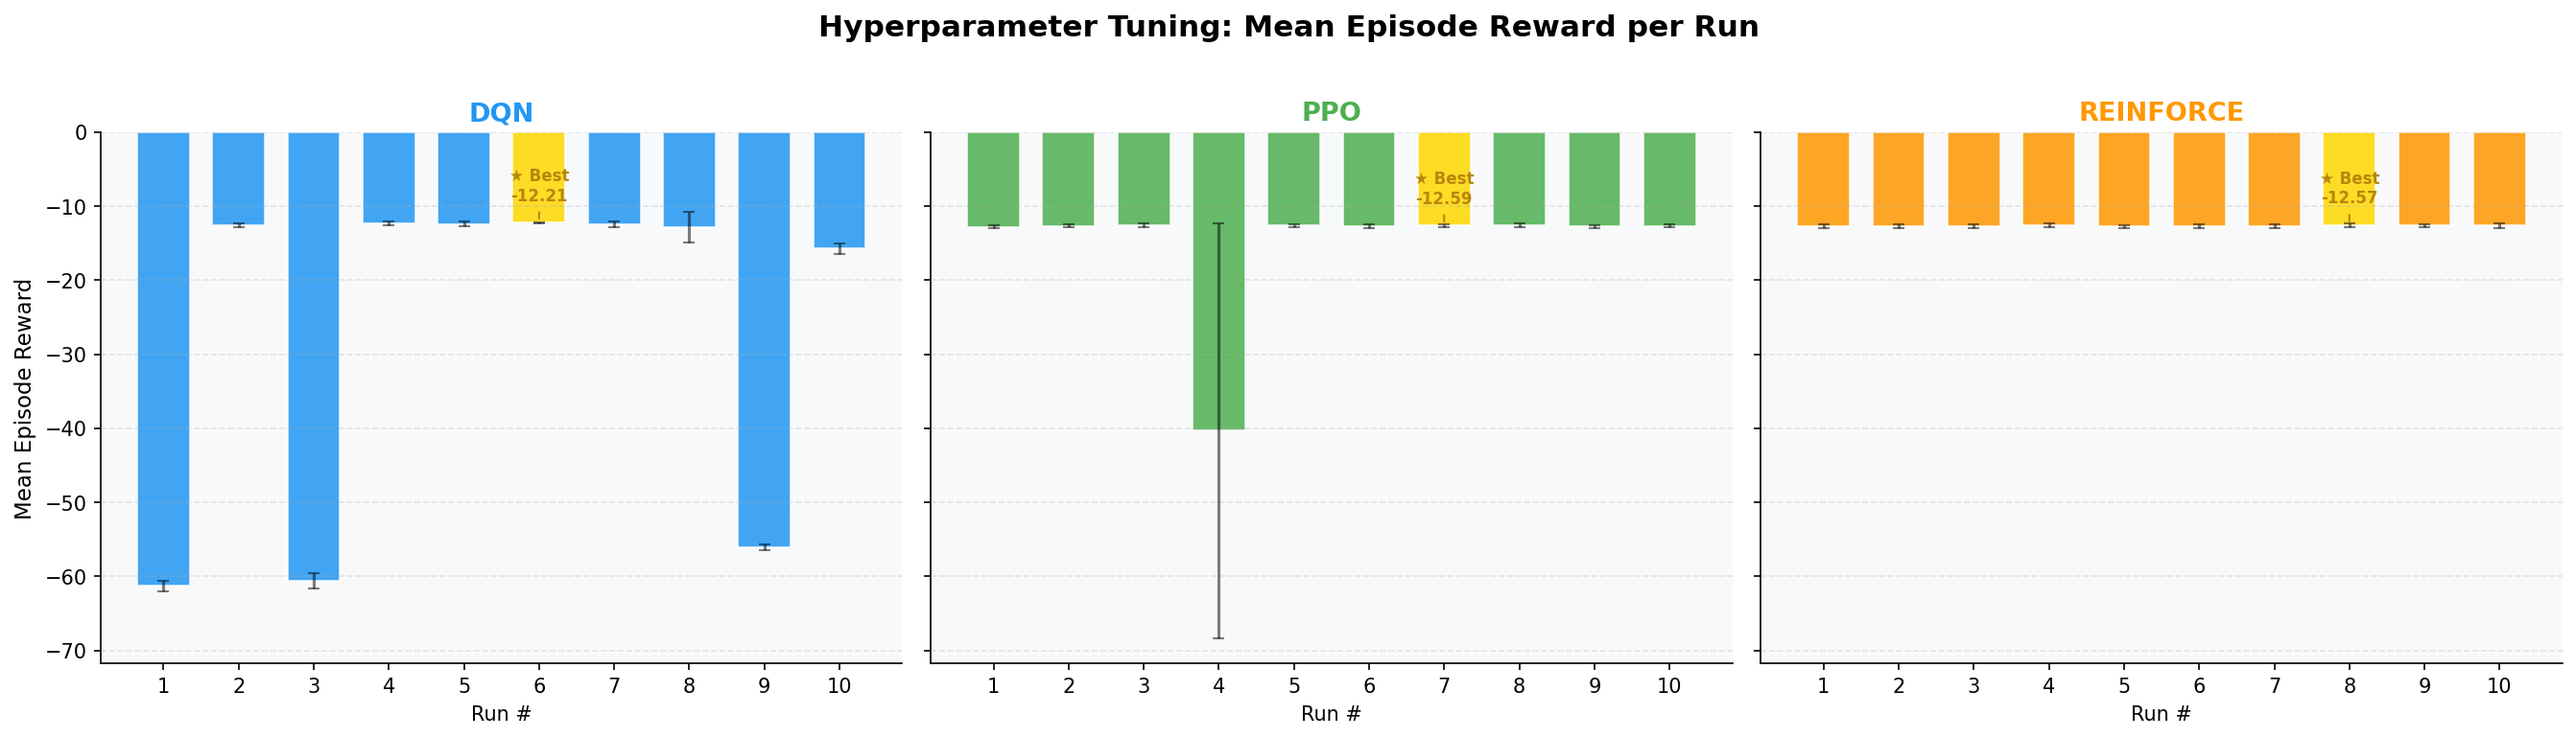
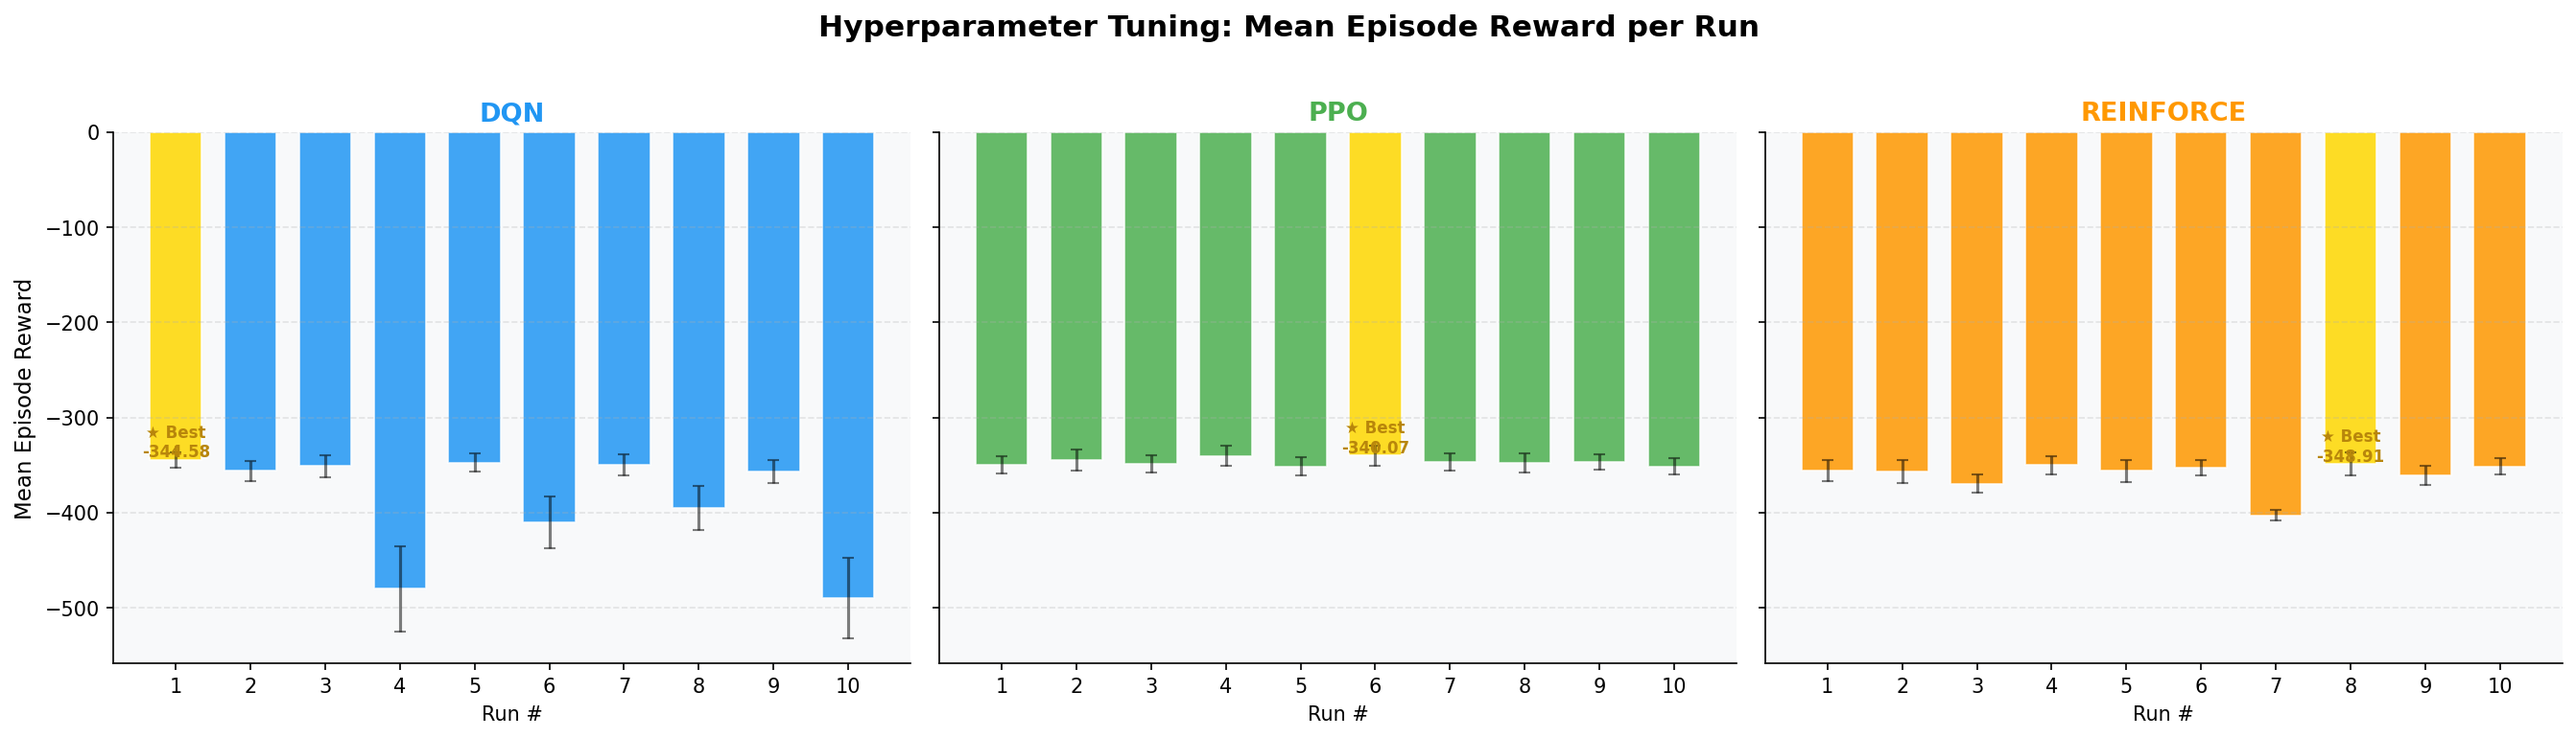
feat: retrain PPO and REINFORCE on trace split + recalibrated reward

diff --git a/training/reinforce_training.py b/training/reinforce_training.py
@@ -14,6 +14,7 @@ Usage:
 
 import os
 import sys
+import json
 import numpy as np
 import pandas as pd
 import torch
@@ -24,6 +25,12 @@ from torch.distributions import Categorical
 sys.path.insert(0, os.path.join(os.path.dirname(__file__), ".."))
 
 from environment.custom_env import KubernetesEnv
+
+ROOT = os.path.join(os.path.dirname(__file__), "..")
+
+# Train on the 8-trace train split (same split as DQN/PPO; test traces held out).
+with open(os.path.join(ROOT, "data", "split.json")) as _f:
+    TRAIN_PATHS = [os.path.join(ROOT, p) for p in json.load(_f)["train"]]
 
 # ──────────────────────────────────────────────
 # Policy Network
@@ -174,10 +181,14 @@ class REINFORCE:
 # Training loop
 # ──────────────────────────────────────────────
 
-def train_reinforce(config, run_id, total_episodes=350, eval_episodes=10):
-    """Train a single REINFORCE agent and return evaluation results."""
-    env = KubernetesEnv(trace_type="cyclical")
-    eval_env = KubernetesEnv(trace_type="cyclical")
+def train_reinforce(config, run_id, total_episodes=520, eval_episodes=20):
+    """Train a single REINFORCE agent and return evaluation results.
+
+    total_episodes=520 ~= 150k env steps (288/episode), matching DQN/PPO.
+    Multi-trace: each episode samples a random train trace -> generalization.
+    """
+    env = KubernetesEnv(trace_paths=TRAIN_PATHS)
+    eval_env = KubernetesEnv(trace_paths=TRAIN_PATHS)
 
     agent = REINFORCE(
         obs_dim=4,

diff --git a/training/ppo_training.py b/training/ppo_training.py
@@ -7,6 +7,7 @@ Usage:
 
 import os
 import sys
+import json
 import numpy as np
 import pandas as pd
 
@@ -53,8 +54,14 @@ CONFIGS = [
          n_epochs=5, ent_coef=0.02, clip_range=0.25, notes="Combined changes"),
 ]
 
-TOTAL_TIMESTEPS = 100_000
-EVAL_EPISODES = 10
+TOTAL_TIMESTEPS = 150_000          # match DQN / proposal commitment
+EVAL_EPISODES = 20                 # multi-trace eval -> real variance
+ROOT = os.path.join(os.path.dirname(__file__), "..")
+
+# Train on the 8-trace train split (same split as DQN; test traces held out).
+with open(os.path.join(ROOT, "data", "split.json")) as _f:
+    TRAIN_PATHS = [os.path.join(ROOT, p) for p in json.load(_f)["train"]]
+
 MODEL_DIR = os.path.join(os.path.dirname(__file__), "..", "models", "pg")
 LOG_DIR = os.path.join(os.path.dirname(__file__), "..", "logs", "ppo")
 RESULTS_PATH = os.path.join(os.path.dirname(__file__), "..", "outputs", "ppo_results.csv")
@@ -90,8 +97,8 @@ def main():
         print(f"  Config: {cfg}")
         print(f"{'='*60}\n")
 
-        env = make_vec_env(lambda: KubernetesEnv(trace_type="cyclical"), n_envs=4)
-        eval_env = KubernetesEnv(trace_type="cyclical")
+        env = make_vec_env(lambda: KubernetesEnv(trace_paths=TRAIN_PATHS), n_envs=4)
+        eval_env = KubernetesEnv(trace_paths=TRAIN_PATHS)
 
         run_log = os.path.join(LOG_DIR, f"run_{i}")
         eval_cb = EvalCallback(
